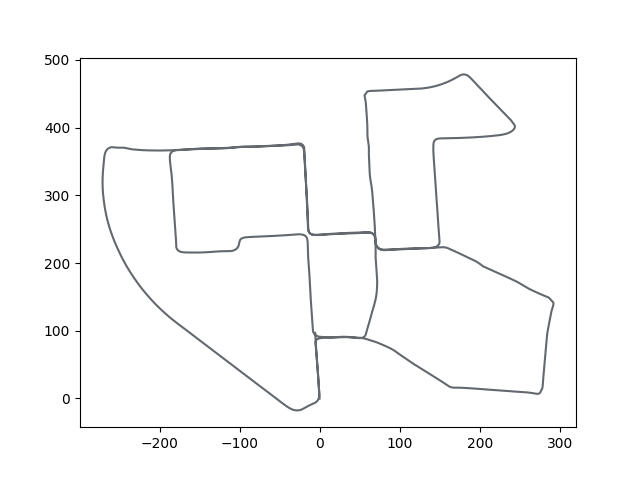
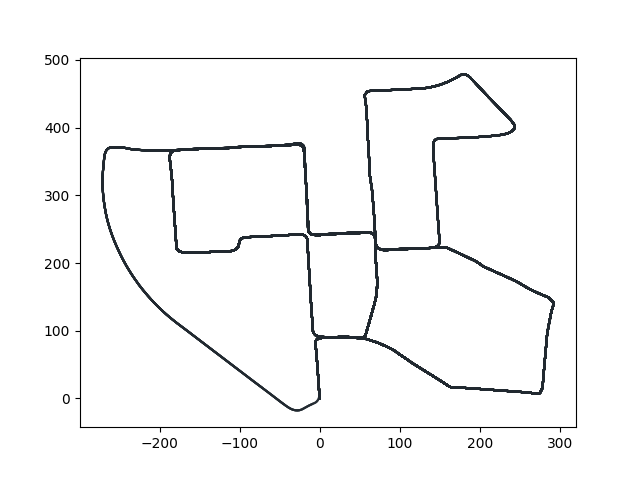
Loop closures detected

diff --git a/common/handler.py b/common/handler.py
@@ -139,10 +139,41 @@ def showVideo(skip=4):
 
 
 def showMap():
+    name = 'map'
     black = col(33,41,48, 0.7)
+    red = col(220, 32, 52, 1.0)
     txs, tzs = readGTKITTI()
     plt.plot(txs, tzs, color=black)
-    plt.savefig(f'{saved_folder}/map.png')
+    lcs = [(26,857), (171, 997)]
+    lcs = np.array(lcs).flatten()
+    plt.plot([txs[i] for i in lcs], [tzs[i] for i in lcs], marker='o', color=red, linewidth=3.0, linestyle='')
+
+    plt.savefig(f'{saved_folder}/{name}.png')
+    cv2.namedWindow(name, cv2.WINDOW_NORMAL)
+    cv2.resizeWindow(name, 640, 560)
+    cv2.imshow(name, cv2.imread(f'{saved_folder}/map.png', cv2.IMREAD_COLOR))
+    while True:
+        if(cv2.waitKey(0) & 0xFF == ord('q')):
+            break
+
+
+
+    # timestep = int((30.9/len(txs))*1000)
+    # skip = 10
+    # for i in range(len(txs)//skip):
+    #     plt.plot(txs[:(i*skip)], tzs[:(i*skip)], color=black)
+    #     plt.savefig(f'{saved_folder}/map.png')
+        # name = 'map'
+        # cv2.namedWindow(name, cv2.WINDOW_NORMAL)
+        # cv2.resizeWindow(name, 640, 560)
+        # cv2.imshow(name, cv2.imread(f'{saved_folder}/map.png', cv2.IMREAD_COLOR))
+    #     out = cv2.waitKey(timestep)
+    #     if (out & 0xFF) == ord('s'):
+    #         print(i*skip)
+    #     if (out & 0xFF == ord('q')):
+    #         break
+    # cv2.destroyAllWindows()
+
 
 
 def showTrajectory(showGT = True, showLC=False, create = False):

diff --git a/common/map.py b/common/map.py
@@ -1,7 +1,11 @@
 import handler
 
 if __name__ == "__main__":
-    folder = '/root/KITTI_02'
+    folder = '/root/KITTI_06' #00 02 05 06 07 09
     handler.readFolder(folder)
     handler.showMap()
+
+    lcc = [(26,857), (171, 997)]
+    handler.showLoopClosurePairs(lcc)
+
     # handler.showVideo(skip=10)
